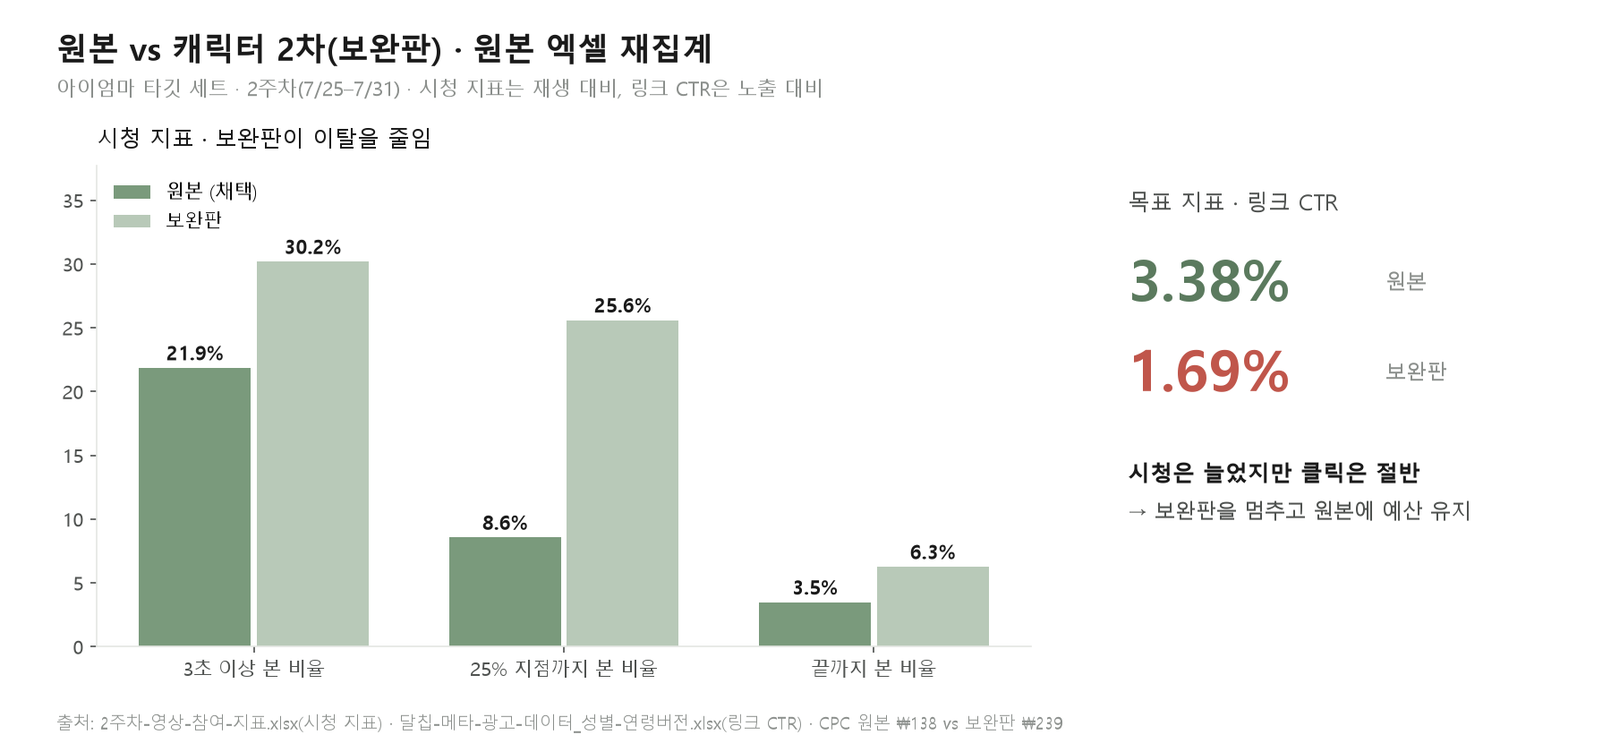
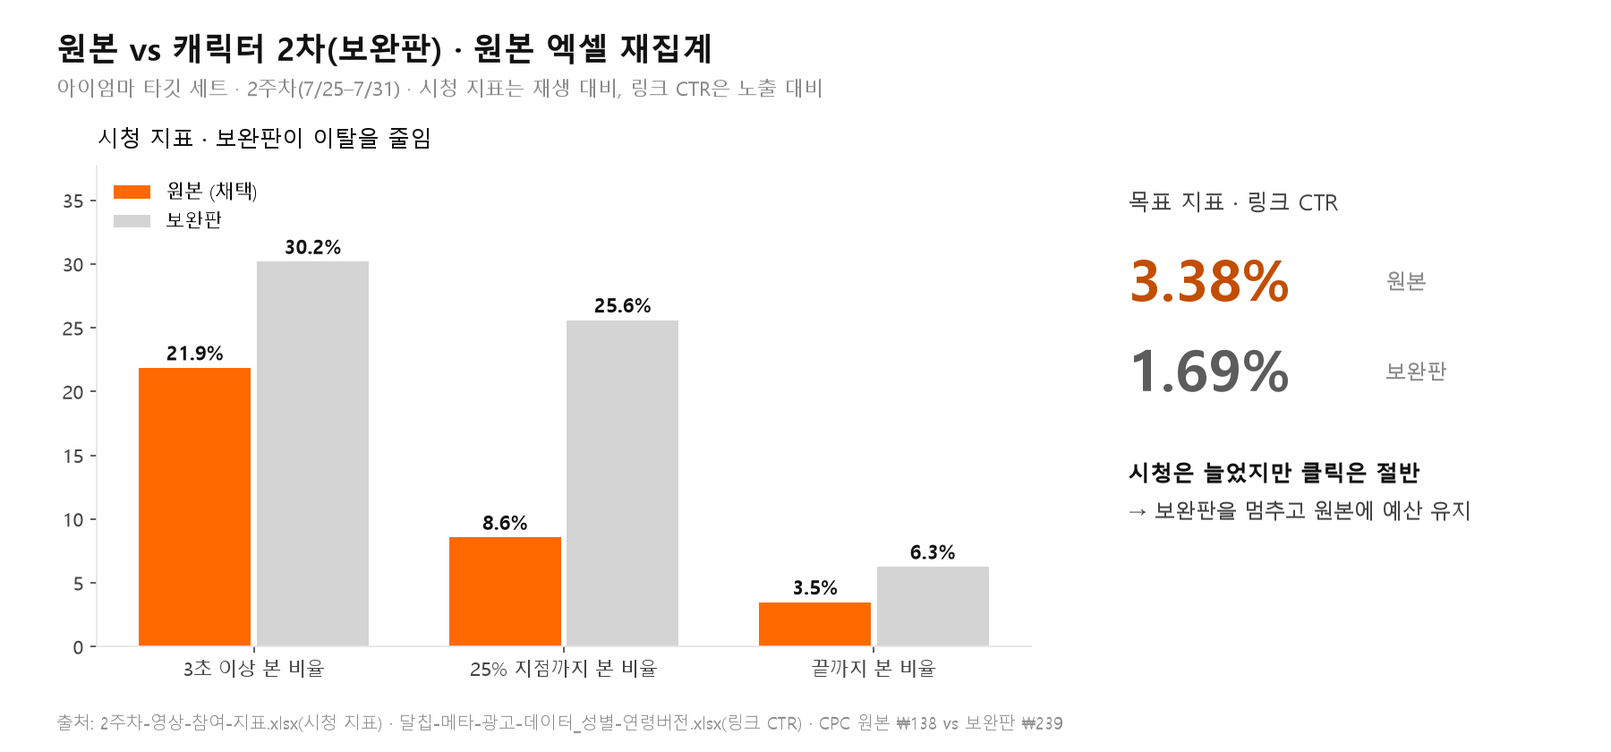
Restyle portfolio in Spigen's monochrome palette
Swap the sage accent for a black-and-white base with a single orange
accent (#FF6900), mark losing creatives in grey instead of red, rebuild
the evidence charts in the same palette, and replace the content section
with Instagram and YouTube phone mockups.

diff --git a/index.html b/index.html
@@ -12,9 +12,9 @@
 <link rel="stylesheet" href="https://cdn.jsdelivr.net/gh/orioncactus/pretendard@v1.3.9/dist/web/static/pretendard.css" />
 <style>
 :root{
-  --bg:#f7f7f7; --card:#ffffff; --ink:#1a1a1a; --ink2:#4f5250; --muted:#8b8f8c; --line:#e4e6e3;
-  --sage:#7a9a7c; --sage-d:#5b7a5e; --sage-l:#e8efe6; --sage-ll:#f1f5ef; --dark:#3b3b3b;
-  --bad:#c0564b; --bad-l:#f8e7e4;
+  --bg:#f7f7f7; --card:#ffffff; --ink:#111111; --ink2:#444444; --muted:#8a8a8a; --line:#e5e5e5;
+  --accent:#ff6900; --accent-d:#c24e00; --accent-l:#ffe8d6; --accent-ll:#fff5ec; --dark:#111111;
+  --bad:#5c5c5c; --bad-l:#ededed;
   --wrap:1180px;
 }
 *{box-sizing:border-box}
@@ -24,27 +24,27 @@ img{max-width:100%;display:block}
 a{color:inherit}
 p{margin:0 0 12px}
 .wrap{max-width:var(--wrap);margin:0 auto;padding:0 24px}
-.sage{color:var(--sage)}
+.accent{color:var(--accent)}
 .muted{color:var(--muted)}
 
 /* progress + nav */
-.progress{position:fixed;top:0;left:0;height:3px;width:0;background:var(--sage);z-index:60}
+.progress{position:fixed;top:0;left:0;height:3px;width:0;background:var(--accent);z-index:60}
 .nav{position:fixed;top:0;left:0;right:0;z-index:50;transition:background .25s,box-shadow .25s}
-.nav.scrolled{background:rgba(247,247,247,.92);backdrop-filter:blur(8px);box-shadow:0 1px 0 var(--line)}
+.nav.scrolled{background:rgba(247,247,247,.94);backdrop-filter:blur(8px);box-shadow:0 1px 0 var(--line)}
 .nav-inner{max-width:var(--wrap);margin:0 auto;padding:14px 24px;display:flex;align-items:center;justify-content:space-between}
 .nav-logo{font-weight:800;text-decoration:none;font-size:17px}
 .nav-links{display:flex;gap:26px}
 .nav-links a{text-decoration:none;font-size:14px;font-weight:600;color:var(--ink2)}
-.nav-links a:hover,.nav-links a.active{color:var(--sage-d)}
+.nav-links a:hover,.nav-links a.active{color:var(--accent-d)}
 .nav-toggle{display:none;background:none;border:0;padding:6px;cursor:pointer}
 .nav-toggle span{display:block;width:22px;height:2px;background:var(--ink);margin:5px 0}
 
 /* sections */
 section{position:relative;padding:120px 0}
-.glow::before{content:"";position:absolute;inset:0 0 auto 0;height:340px;background:radial-gradient(ellipse 70% 100% at 50% 0%,rgba(196,222,184,.55),rgba(247,247,247,0) 70%);pointer-events:none}
+.glow::before{content:"";position:absolute;inset:0 0 auto 0;height:340px;background:radial-gradient(ellipse 70% 100% at 50% 0%,rgba(255,105,0,.09),rgba(247,247,247,0) 70%);pointer-events:none}
 .sec-title{font-size:clamp(30px,4.4vw,52px);font-weight:700;line-height:1.25;letter-spacing:-.03em;margin:0 0 10px}
 .sec-sub{font-size:18px;font-weight:600;margin:0 0 34px}
-.eyebrow{font-size:13px;font-weight:700;letter-spacing:.14em;color:var(--sage-d);text-transform:uppercase;margin-bottom:14px}
+.eyebrow{font-size:13px;font-weight:700;letter-spacing:.14em;color:var(--accent-d);text-transform:uppercase;margin-bottom:14px}
 .h3{font-size:clamp(22px,2.6vw,30px);font-weight:700;letter-spacing:-.02em;line-height:1.35;margin:0 0 18px}
 .lead{font-size:17px;color:var(--ink2)}
 
@@ -52,7 +52,7 @@ section{position:relative;padding:120px 0}
 #cover{min-height:100vh;display:flex;align-items:center;justify-content:center;text-align:center;padding:100px 0}
 #cover h1{font-size:clamp(64px,13vw,168px);font-weight:800;letter-spacing:-.01em;line-height:1;margin:0 0 30px}
 #cover .tagline{font-size:clamp(18px,2.4vw,28px);font-weight:500;letter-spacing:.06em;margin:0 0 12px}
-#cover .tagline b{color:var(--sage);font-weight:700}
+#cover .tagline b{color:var(--accent);font-weight:700}
 #cover .meta{font-size:14px;color:var(--muted);letter-spacing:.04em}
 .scroll-cue{position:absolute;bottom:34px;left:50%;transform:translateX(-50%);font-size:12px;letter-spacing:.2em;color:var(--muted)}
 
@@ -64,27 +64,27 @@ section{position:relative;padding:120px 0}
 .profile ul{list-style:none;padding:0;margin:0;font-size:15px}
 .profile li{margin:6px 0}
 .profile a{text-decoration:none;border-bottom:1px solid var(--line)}
-.about-head{border-left:2px solid var(--sage);padding-left:28px;margin-bottom:40px}
+.about-head{border-left:2px solid var(--accent);padding-left:28px;margin-bottom:40px}
 .about-head h2{font-size:clamp(44px,5.4vw,72px);font-weight:600;letter-spacing:-.03em;line-height:1.05;margin:0 0 14px}
 .about-head p{font-size:19px;font-weight:600;margin:0}
 .about-cols{display:grid;grid-template-columns:1fr 1fr;gap:34px 48px}
 .blk h4{font-size:19px;font-weight:700;margin:0 0 14px;padding-bottom:10px;position:relative}
-.blk h4::after{content:"";position:absolute;left:0;bottom:0;width:72px;height:2px;background:var(--sage)}
+.blk h4::after{content:"";position:absolute;left:0;bottom:0;width:72px;height:2px;background:var(--accent)}
 .rows{list-style:none;padding:0;margin:0;font-size:15px}
 .rows li{display:grid;grid-template-columns:108px 1fr;gap:10px;margin:8px 0}
 .rows li span{font-weight:700;font-variant-numeric:tabular-nums}
 .principles{margin-top:44px;display:grid;grid-template-columns:repeat(3,1fr);gap:16px}
 .pr{background:var(--card);border:1px solid var(--line);border-radius:18px;padding:22px}
-.pr .n{width:34px;height:34px;border-radius:50%;border:1.5px solid var(--sage);color:var(--sage-d);font-weight:700;display:grid;place-items:center;margin-bottom:12px}
+.pr .n{width:34px;height:34px;border-radius:50%;border:1.5px solid var(--accent);color:var(--accent-d);font-weight:700;display:grid;place-items:center;margin-bottom:12px}
 .pr b{display:block;font-size:16px;margin-bottom:6px}
 .pr span{font-size:14px;color:var(--ink2)}
 
 /* project intro */
 .intro-grid{display:grid;grid-template-columns:1.25fr 1fr;gap:56px;align-items:center}
 .tags{display:flex;flex-wrap:wrap;gap:22px;margin:34px 0 36px}
-.tag{width:150px;height:150px;border-radius:50%;border:2px solid var(--sage);background:#fff;display:grid;place-items:center;text-align:center;font-weight:700;font-size:18px;padding:10px;line-height:1.35}
+.tag{width:150px;height:150px;border-radius:50%;border:2px solid var(--accent);background:#fff;display:grid;place-items:center;text-align:center;font-weight:700;font-size:18px;padding:10px;line-height:1.35}
 .route{display:inline-flex;flex-wrap:wrap;align-items:center;gap:10px;margin:0 0 22px;font-weight:700}
-.route span{background:var(--sage-l);color:var(--sage-d);padding:7px 16px;border-radius:999px;font-size:15px}
+.route span{background:var(--accent-l);color:var(--accent-d);padding:7px 16px;border-radius:999px;font-size:15px}
 .route i{font-style:normal;color:var(--muted)}
 .facts{width:100%;border-collapse:collapse;font-size:15px;margin-top:6px}
 .facts th{width:92px;text-align:left;color:var(--muted);font-weight:600;padding:10px 0;vertical-align:top;border-top:1px solid var(--line)}
@@ -97,8 +97,8 @@ section{position:relative;padding:120px 0}
 
 /* KPI circles */
 .kpi-row{display:grid;grid-template-columns:repeat(4,1fr);gap:22px;position:relative;margin-top:30px}
-.kpi{aspect-ratio:1;width:100%;max-width:260px;justify-self:center;border-radius:50%;background:#fff;box-shadow:0 8px 30px rgba(60,80,60,.06);display:flex;flex-direction:column;align-items:center;justify-content:center;text-align:center;padding:18px}
-.kpi .v{font-size:clamp(26px,3.6vw,50px);font-weight:800;letter-spacing:-.03em;line-height:1.1;background:linear-gradient(180deg,#5b7a5e,#9cb99c);-webkit-background-clip:text;background-clip:text;color:transparent;font-variant-numeric:tabular-nums}
+.kpi{aspect-ratio:1;width:100%;max-width:260px;justify-self:center;border-radius:50%;background:#fff;box-shadow:0 8px 30px rgba(0,0,0,.06);display:flex;flex-direction:column;align-items:center;justify-content:center;text-align:center;padding:18px}
+.kpi .v{font-size:clamp(26px,3.6vw,50px);font-weight:800;letter-spacing:-.03em;line-height:1.1;color:var(--accent);font-variant-numeric:tabular-nums}
 .kpi .l{font-weight:700;font-size:17px;margin-top:10px}
 .kpi .s{font-size:13px;font-weight:600;color:var(--ink2);margin-top:4px}
 .note{font-size:13px;color:var(--muted);margin-top:14px}
@@ -110,10 +110,10 @@ section{position:relative;padding:120px 0}
 .read{display:grid;gap:12px}
 .read-row{display:grid;grid-template-columns:1.1fr 1fr 1fr;background:#fff;border-radius:16px;overflow:hidden;border:1px solid var(--line)}
 .read-row > div{padding:18px 20px;font-size:15px}
-.read-row .num{background:var(--sage-ll)}
-.read-row .num b{display:block;font-size:22px;letter-spacing:-.02em;color:var(--sage-d);line-height:1.3}
+.read-row .num{background:var(--accent-ll)}
+.read-row .num b{display:block;font-size:22px;letter-spacing:-.02em;color:var(--accent-d);line-height:1.3}
 .read-row .act{border-left:1px dashed var(--line);font-weight:600}
-.read-row .act::before{content:"→ ";color:var(--sage-d);font-weight:800}
+.read-row .act::before{content:"→ ";color:var(--accent-d);font-weight:800}
 .read.c2 .read-row,.read-head.c2{grid-template-columns:1fr 2fr}
 .q{font-size:clamp(19px,2vw,22px);font-weight:700;letter-spacing:-.01em;margin:0 0 10px}
 .read-head{display:grid;grid-template-columns:1.1fr 1fr 1fr;font-size:12px;font-weight:700;color:var(--muted);letter-spacing:.1em;padding:0 20px}
@@ -129,12 +129,12 @@ section{position:relative;padding:120px 0}
 .chart{background:#fff;border-radius:18px;padding:24px;border:1px solid var(--line)}
 .chart h5{margin:0 0 14px;font-size:15px}
 .bar{display:grid;grid-template-columns:130px 1fr 58px;gap:10px;align-items:center;margin:9px 0;font-size:14px}
-.track{height:14px;background:var(--sage-ll);border-radius:7px;overflow:hidden}
-.fill{height:100%;border-radius:7px;background:#b8c9b8;width:0;transition:width 1s ease}
-.fill.hl{background:var(--sage)}
+.track{height:14px;background:var(--accent-ll);border-radius:7px;overflow:hidden}
+.fill{height:100%;border-radius:7px;background:#d4d4d4;width:0;transition:width 1s ease}
+.fill.hl{background:var(--accent)}
 .fill.bad{background:var(--bad)}
-.fill.kr{background:var(--sage)}
-.fill.jp{background:#c9b27a}
+.fill.kr{background:var(--accent)}
+.fill.jp{background:#444444}
 .bar .v{text-align:right;font-weight:700;font-variant-numeric:tabular-nums}
 .pair{margin:10px 0}
 .pair .lab{font-size:14px;font-weight:600;margin-bottom:4px}
@@ -150,11 +150,11 @@ section{position:relative;padding:120px 0}
 .prompt img{width:100%}
 .steps{display:grid;grid-template-columns:1fr 1fr;gap:18px;margin-top:30px}
 .step{background:#fff;border:1px solid var(--line);border-radius:18px;padding:22px}
-.step .k{font-size:12px;font-weight:700;letter-spacing:.12em;color:var(--sage-d)}
+.step .k{font-size:12px;font-weight:700;letter-spacing:.12em;color:var(--accent-d)}
 .step h5{margin:4px 0 8px;font-size:17px}
 .step p{font-size:15px;color:var(--ink2);margin:0}
 
-.quote{border-left:3px solid var(--sage);background:var(--sage-ll);padding:14px 20px;border-radius:0 12px 12px 0;margin:20px 0 0;font-size:15px;font-weight:600}
+.quote{border-left:3px solid var(--accent);background:var(--accent-ll);padding:14px 20px;border-radius:0 12px 12px 0;margin:20px 0 0;font-size:15px;font-weight:600}
 .shot{margin-top:26px}
 .shot img{border:1px solid var(--line);border-radius:10px;background:#fff}
 .shot figcaption{font-size:13px;color:var(--muted);margin-top:8px}
@@ -167,7 +167,7 @@ section{position:relative;padding:120px 0}
 .box li{margin:5px 0}
 .limit{display:grid;grid-template-columns:1fr 1fr 1fr;gap:16px;margin-top:22px}
 .limit .box h5{display:flex;flex-wrap:wrap;align-items:center;gap:8px}
-.limit .box h5 em{font-style:normal;font-size:12px;font-weight:700;padding:2px 10px;border-radius:999px;background:var(--sage-l);color:var(--sage-d)}
+.limit .box h5 em{font-style:normal;font-size:12px;font-weight:700;padding:2px 10px;border-radius:999px;background:var(--accent-l);color:var(--accent-d)}
 .limit .box.lim h5 em{background:var(--bad-l);color:var(--bad)}
 .limit p{font-size:15px;color:var(--ink2);margin:0}
 
@@ -176,7 +176,7 @@ section{position:relative;padding:120px 0}
 #bridge .wrap{width:100%}
 #bridge h2{font-size:clamp(30px,4.6vw,56px);font-weight:700;letter-spacing:-.03em;line-height:1.3;margin:0 0 22px}
 #bridge p{font-size:clamp(16px,1.6vw,19px);color:var(--ink2);margin:0}
-#bridge::after{content:"";display:block;position:absolute;left:50%;bottom:70px;width:1px;height:48px;background:var(--sage)}
+#bridge::after{content:"";display:block;position:absolute;left:50%;bottom:70px;width:1px;height:48px;background:var(--accent)}
 
 /* channel hero */
 .channel-hero{display:grid;grid-template-columns:1fr 1.05fr;gap:40px;align-items:center}
@@ -184,7 +184,7 @@ section{position:relative;padding:120px 0}
 .channel-hero p{font-size:16px;color:var(--ink2)}
 .channel-hero .links{display:flex;flex-wrap:wrap;gap:10px;margin-top:22px}
 .phone-duo{position:relative;width:100%;max-width:600px;aspect-ratio:1/1.1;margin-left:auto}
-.phone{position:absolute;width:42%;aspect-ratio:9/19.2;background:#141414;border-radius:38px;padding:9px;box-shadow:0 26px 50px rgba(30,45,30,.16),inset 0 0 0 2px #2a2a2a}
+.phone{position:absolute;width:42%;aspect-ratio:9/19.2;background:#141414;border-radius:38px;padding:9px;box-shadow:0 26px 50px rgba(0,0,0,.16),inset 0 0 0 2px #2a2a2a}
 .phone::before{content:"";position:absolute;top:18px;left:50%;transform:translateX(-50%);width:28%;height:16px;background:#141414;border-radius:10px;z-index:2}
 .phone .screen{width:100%;height:100%;border-radius:30px;overflow:hidden;background:#fff}
 .phone .screen img{width:100%;height:100%;object-fit:cover;object-position:top center}
@@ -195,43 +195,43 @@ section{position:relative;padding:120px 0}
 /* content cards */
 .ccards{display:grid;grid-template-columns:repeat(3,1fr);gap:20px;margin-top:10px}
 .ccard{background:#fff;border:1px solid var(--line);border-radius:20px;overflow:hidden;display:flex;flex-direction:column}
-.ccard .thumb{aspect-ratio:16/10;background:var(--sage-ll);overflow:hidden}
+.ccard .thumb{aspect-ratio:16/10;background:var(--accent-ll);overflow:hidden}
 .ccard .thumb img{width:100%;height:100%;object-fit:cover}
 .ccard .thumb.fit img{object-fit:contain;object-position:center bottom}
 .ccard .in{padding:22px 22px 24px;display:flex;flex-direction:column;flex:1}
-.ccard .k{font-size:12px;font-weight:700;letter-spacing:.12em;color:var(--sage-d);text-transform:uppercase}
+.ccard .k{font-size:12px;font-weight:700;letter-spacing:.12em;color:var(--accent-d);text-transform:uppercase}
 .ccard h4{margin:4px 0 4px;font-size:19px;letter-spacing:-.01em}
 .ccard .org{font-size:13px;color:var(--muted);margin:0 0 12px}
 .ccard p{font-size:14.5px;color:var(--ink2);margin:0 0 14px}
 .ccard .point{margin-top:auto;padding-top:14px;border-top:1px dashed var(--line);font-size:14px;font-weight:700}
-.ccard .point::before{content:"→ ";color:var(--sage-d)}
+.ccard .point::before{content:"→ ";color:var(--accent-d)}
 .ccard .links{display:flex;flex-wrap:wrap;gap:8px;margin:0 0 14px}
 .ccard .btn{padding:6px 12px;font-size:13px}
 
 /* next */
 .next-table{display:grid;gap:12px;margin-top:30px}
 .next-row{display:grid;grid-template-columns:1fr 60px 1fr;align-items:center;background:#fff;border:1px solid var(--line);border-radius:16px;padding:18px 22px;font-size:15px}
-.next-row .arrow{text-align:center;color:var(--sage);font-weight:800;font-size:20px}
+.next-row .arrow{text-align:center;color:var(--accent);font-weight:800;font-size:20px}
 .next-row .to{font-weight:700}
 .closing{margin:48px 0 0;text-align:center;font-size:clamp(20px,2.4vw,28px);font-weight:700;line-height:1.5;letter-spacing:-.02em}
-.next-head{display:grid;grid-template-columns:1fr 60px 1fr;padding:0 22px;font-size:13px;font-weight:700;letter-spacing:.04em;color:var(--sage-d)}
+.next-head{display:grid;grid-template-columns:1fr 60px 1fr;padding:0 22px;font-size:13px;font-weight:700;letter-spacing:.04em;color:var(--accent-d)}
 
 /* evidence */
 .ev-grid{display:grid;grid-template-columns:repeat(2,1fr);gap:22px;margin-top:26px}
 .ev{background:#fff;border:1px solid var(--line);border-radius:18px;overflow:hidden;scroll-margin-top:90px}
 .ev button{all:unset;display:block;cursor:zoom-in;width:100%}
-.ev button:focus-visible{outline:2px solid var(--sage);outline-offset:-2px}
+.ev button:focus-visible{outline:2px solid var(--accent);outline-offset:-2px}
 .ev img{width:100%;aspect-ratio:16/8.4;object-fit:cover;object-position:top left;border-bottom:1px solid var(--line);background:#fff}
 .ev .cap{padding:16px 18px 18px}
-.ev .cap .id{font-size:12px;font-weight:700;letter-spacing:.1em;color:var(--sage-d)}
+.ev .cap .id{font-size:12px;font-weight:700;letter-spacing:.1em;color:var(--accent-d)}
 .ev .cap b{display:block;font-size:16px;margin:2px 0 4px}
 .ev .cap span{font-size:13.5px;color:var(--ink2)}
-.ev-link{display:inline-block;margin-top:10px;font-size:13px;font-weight:700;color:var(--sage-d);text-decoration:none;border-bottom:1px solid var(--sage-l)}
-.ev-link:hover{border-color:var(--sage-d)}
+.ev-link{display:inline-block;margin-top:10px;font-size:13px;font-weight:700;color:var(--accent-d);text-decoration:none;border-bottom:1px solid var(--accent-l)}
+.ev-link:hover{border-color:var(--accent-d)}
 .ev-src{margin-top:20px;font-size:13.5px;color:var(--ink2);background:#fff;border:1px dashed var(--line);border-radius:14px;padding:14px 18px}
-.ev-src code{font-family:ui-monospace,Consolas,monospace;font-size:12.5px;background:var(--sage-ll);padding:1px 6px;border-radius:5px}
+.ev-src code{font-family:ui-monospace,Consolas,monospace;font-size:12.5px;background:var(--accent-ll);padding:1px 6px;border-radius:5px}
 .lightbox{border:0;padding:0;background:transparent;max-width:min(1200px,94vw);max-height:92vh}
-.lightbox::backdrop{background:rgba(20,22,20,.78)}
+.lightbox::backdrop{background:rgba(17,17,17,.8)}
 .lightbox img{max-width:100%;max-height:86vh;border-radius:10px;background:#fff}
 .lightbox p{color:#fff;font-size:14px;margin:10px 2px 0}
 .lightbox .close{position:fixed;top:14px;right:18px;background:#fff;border:0;border-radius:999px;width:38px;height:38px;font-size:20px;cursor:pointer}
@@ -240,7 +240,7 @@ section{position:relative;padding:120px 0}
 #thanks{text-align:center;padding:160px 0 140px}
 #thanks .small{font-size:22px;letter-spacing:.3em;color:var(--ink2);margin-bottom:14px;padding-bottom:14px;display:inline-block;border-bottom:1px solid var(--line)}
 #thanks h2{font-size:clamp(60px,10vw,120px);font-weight:800;letter-spacing:-.02em;margin:0;position:relative;display:inline-block}
-#thanks h2 em{position:absolute;left:-18%;top:-34%;font-family:"Brush Script MT","Segoe Script",cursive;font-weight:400;font-style:normal;font-size:.62em;color:var(--sage);transform:rotate(-8deg)}
+#thanks h2 em{position:absolute;left:-18%;top:-34%;font-family:"Brush Script MT","Segoe Script",cursive;font-weight:400;font-style:normal;font-size:.62em;color:var(--accent);transform:rotate(-8deg)}
 #thanks .contact{margin-top:30px;font-weight:600}
 
 /* reveal */
@@ -323,7 +323,7 @@ section{position:relative;padding:120px 0}
     </div>
     <div>
       <div class="about-head rv">
-        <h2>About <span class="sage">me</span></h2>
+        <h2>About <span class="accent">me</span></h2>
         <p>가설을 세우고, 광고 데이터로 검증하는 송보경입니다.</p>
       </div>
       <div class="about-cols rv">
@@ -427,7 +427,7 @@ section{position:relative;padding:120px 0}
   <div class="wrap">
     <div class="eyebrow rv">Step 1 · 데이터로 타깃과 메시지 정하기</div>
     <h3 class="h3 rv">시장 데이터로 ‘누구에게, 어떤 말로’ 들어갈지 정했습니다</h3>
-    <div class="flow-badge rv"><b>숫자</b><i>→</i><b>해석</b><i>→</i><b>판단</b></div>
+    <div class="flow-badge rv"><b>숫자</b><i>→</i><b>판단</b></div>
     <div class="read-head c2"><span>숫자</span><span>판단</span></div>
     <div class="read c2 rv">
       <div class="read-row"><div class="num"><b>77.5%</b>일본 쌀과자 시장 중 간장맛</div><div class="act">간장맛에 편중된 시장의 공백을 파악하고, ‘건강과 맛을 동시에 잡는 초코 쌀과자’로 포지셔닝</div></div>
@@ -439,12 +439,12 @@ section{position:relative;padding:120px 0}
     <div class="two" style="margin-top:34px">
       <div class="chart rv">
         <h5>한·일 세부 속성 만족도</h5>
-        <div class="legend"><span><i style="background:var(--sage)"></i>한국</span><span><i style="background:#c9b27a"></i>일본</span></div>
+        <div class="legend"><span><i style="background:var(--accent)"></i>한국</span><span><i style="background:#444444"></i>일본</span></div>
         <div id="satChart"></div>
       </div>
       <div class="chart rv">
         <h5>실제 리뷰 감정 비교</h5>
-        <div class="legend"><span><i style="background:var(--sage)"></i>긍정</span><span><i style="background:#cfd6cf"></i>중립</span><span><i style="background:var(--bad)"></i>부정</span></div>
+        <div class="legend"><span><i style="background:var(--accent)"></i>긍정</span><span><i style="background:#d9d9d9"></i>중립</span><span><i style="background:var(--bad)"></i>부정</span></div>
         <div id="sentChart"></div>
         <p class="note" style="margin-top:18px">한일 속성 만족도와 리뷰 감정을 비교한 결과, 한국 소비자는 쌀 본연의 고소함(만족도 70%)에 집중한 반면, 일본 소비자는 초코와의 밸런스(단맛 만족도 50%)를 더 중요하게 평가했습니다. 이를 바탕으로 ‘쌀의 고소함과 초코 크림의 조화’를 강조하는 현지 맞춤형 카피를 도출했습니다.</p>
       </div>
@@ -575,7 +575,7 @@ section{position:relative;padding:120px 0}
 <section id="bridge" class="glow">
   <div class="wrap">
     <div class="eyebrow rv">Data × Creative</div>
-    <h2 class="rv">데이터를 읽는 눈,<br>그리고 <span class="sage">데이터를 움직이는 크리에이티브</span></h2>
+    <h2 class="rv">데이터를 읽는 눈,<br>그리고 <span class="accent">데이터를 움직이는 크리에이티브</span></h2>
     <p class="rv">퍼포먼스 마케팅의 최적화는 결국 ‘타깃을 움직이는 콘텐츠’가 뒷받침되어야 완성됩니다.</p>
   </div>
 </section>
@@ -634,7 +634,7 @@ section{position:relative;padding:120px 0}
       <div class="next-row"><span>지면별 클릭 기여도 분석으로 넥스트 스텝 도출</span><span class="arrow">→</span><span class="to">Facebook·Instagram·TikTok 등 플랫폼별 특성을 고려한 지면 최적화</span></div>
       <div class="next-row"><span>최종 전환(CVR) 트래킹의 한계를 인지하고 해결책 기획</span><span class="arrow">→</span><span class="to">단순 유입을 넘어 최종 구매까지 이어지는 Full-funnel 추적</span></div>
     </div>
-    <p class="closing rv">가설을 세우고, 데이터로 검증하며,<br>확실한 성과(Winning)에 예산을 집중하는 <span class="sage">퍼포먼스 마케터</span>가 되겠습니다.</p>
+    <p class="closing rv">가설을 세우고, 데이터로 검증하며,<br>확실한 성과(Winning)에 예산을 집중하는 <span class="accent">퍼포먼스 마케터</span>가 되겠습니다.</p>
   </div>
 </section>
 
@@ -662,8 +662,8 @@ section{position:relative;padding:120px 0}
   }).join('');
   el('sentChart').innerHTML=sent.map(function(d){
     return '<div class="pair"><div class="lab">'+d[0]+'</div><div style="display:flex;height:26px;border-radius:7px;overflow:hidden;font-size:12px;font-weight:700;color:#fff">'+
-      '<div style="width:'+d[1]+'%;background:var(--sage);display:grid;place-items:center">'+d[1]+'%</div>'+
-      '<div style="width:'+d[2]+'%;background:#cfd6cf;color:#4f5250;display:grid;place-items:center">'+d[2]+'%</div>'+
+      '<div style="width:'+d[1]+'%;background:var(--accent);display:grid;place-items:center">'+d[1]+'%</div>'+
+      '<div style="width:'+d[2]+'%;background:#d9d9d9;color:#444444;display:grid;place-items:center">'+d[2]+'%</div>'+
       '<div style="width:'+d[3]+'%;background:var(--bad);display:grid;place-items:center">'+(d[3]>=8?d[3]+'%':'')+'</div></div></div>';
   }).join('');
   el('cpcChart').innerHTML=cpc.map(function(d){

diff --git a/analysis/make_evidence.py b/analysis/make_evidence.py
@@ -21,8 +21,8 @@ OUT.mkdir(parents=True, exist_ok=True)
 EXCLUDE = "t1_mom_character - v3"
 
 plt.rcParams.update({"font.family": "Malgun Gothic", "axes.unicode_minus": False})
-INK, INK2, MUTED, LINE = "#1a1a1a", "#4f5250", "#8b8f8c", "#e4e6e3"
-SAGE, SAGE_D, SAGE_LL, BAD, GREY = "#7a9a7c", "#5b7a5e", "#f1f5ef", "#c0564b", "#b8c9b8"
+INK, INK2, MUTED, LINE = "#111111", "#444444", "#8a8a8a", "#e5e5e5"
+ACCENT, ACCENT_D, ACCENT_LL, BAD, GREY = "#ff6900", "#c24e00", "#fff5ec", "#5c5c5c", "#d4d4d4"
 
 NUM = ["지출 금액 (KRW)", "링크 클릭", "노출", "클릭(전체)", "ThruPlay"]
 raw = pd.read_excel(ROOT / "달칩-메타-광고-데이터_성별-연령버전.xlsx")
@@ -62,13 +62,13 @@ def draw_table(ax, cols, rows, widths, hl_rows=(), align=None):
     for w in widths:
         xs.append(x)
         x += w
-    ax.add_patch(plt.Rectangle((0, 1 - h), 1, h, color=SAGE_LL, transform=ax.transAxes, lw=0))
+    ax.add_patch(plt.Rectangle((0, 1 - h), 1, h, color=ACCENT_LL, transform=ax.transAxes, lw=0))
     for j, c in enumerate(cols):
         ax.text(xs[j] + 0.01, 1 - h / 2, c, fontsize=10, fontweight="bold", color=INK2, va="center", transform=ax.transAxes)
     for i, r in enumerate(rows):
         y = 1 - h * (i + 1.5)
         if i in hl_rows:
-            ax.add_patch(plt.Rectangle((0, 1 - h * (i + 2)), 1, h, color="#e9f2e6", transform=ax.transAxes, lw=0))
+            ax.add_patch(plt.Rectangle((0, 1 - h * (i + 2)), 1, h, color="#ffebdd", transform=ax.transAxes, lw=0))
         ax.plot([0, 1], [1 - h * (i + 2)] * 2, color=LINE, lw=0.8, transform=ax.transAxes)
         for j, v in enumerate(r):
             right = align and align[j] == "r"
@@ -135,7 +135,7 @@ fem = gender.get("female", 0) / gender.sum() * 100
 fig = plt.figure(figsize=(12, 5.6), dpi=150, facecolor="white")
 header(fig, "성별 · 연령별 반응 · 원본 엑셀 재집계", "아이엄마 타깃 세트 · 2주 합산 · 링크 클릭 기준")
 ax = fig.add_axes([0.07, 0.12, 0.52, 0.62])
-colors = [SAGE if a in ("55-64", "65+") else GREY for a in age.index]
+colors = [ACCENT if a in ("55-64", "65+") else GREY for a in age.index]
 bars = ax.bar(age.index, age.ctr, color=colors, width=0.62)
 for b, v in zip(bars, age.ctr):
     ax.text(b.get_x() + b.get_width() / 2, v + 0.08, f"{v:.2f}%", ha="center", fontsize=11, fontweight="bold", color=INK)
@@ -153,10 +153,10 @@ old_ctr = old["링크 클릭"].sum() / old["노출"].sum() * 100
 young_ctr = young["링크 클릭"].sum() / young["노출"].sum() * 100
 old_share = old["링크 클릭"].sum() / t1["링크 클릭"].sum() * 100
 fig.text(0.65, 0.74, "여성 비중", fontsize=12, color=INK2)
-fig.text(0.65, 0.62, f"{fem:.0f}%", fontsize=34, fontweight="bold", color=SAGE_D)
+fig.text(0.65, 0.62, f"{fem:.0f}%", fontsize=34, fontweight="bold", color=ACCENT_D)
 fig.text(0.65, 0.57, f"링크 클릭 {gender.sum():,.0f}건 중 {gender.get('female', 0):,.0f}건", fontsize=10.5, color=MUTED)
 fig.text(0.65, 0.44, "55세 이상 vs 25~54세 링크 CTR", fontsize=12, color=INK2)
-fig.text(0.65, 0.32, f"{old_ctr:.2f}% vs {young_ctr:.2f}%", fontsize=26, fontweight="bold", color=SAGE_D)
+fig.text(0.65, 0.32, f"{old_ctr:.2f}% vs {young_ctr:.2f}%", fontsize=26, fontweight="bold", color=ACCENT_D)
 fig.text(0.65, 0.27, f"55세 이상이 링크 클릭의 {old_share:.0f}%", fontsize=10.5, color=MUTED)
 footer(fig, "출처: 달칩-메타-광고-데이터_성별-연령버전.xlsx · 성별 unknown 포함 · 연령 Unknown 1행 제외")
 fig.savefig(OUT / "ev_age_gender.png", facecolor="white")
@@ -172,7 +172,7 @@ reels = pl[[i for i in pl.index if "릴스" in i[1]]].sum()
 fig = plt.figure(figsize=(12, 5.6), dpi=150, facecolor="white")
 header(fig, "지면별 링크 클릭 · 원본 엑셀 재집계", f"아이엄마 타깃 세트 · 2주차(7/25–7/31) · 링크 클릭 {pl.sum():,.0f}건 · 자동 배치")
 ax = fig.add_axes([0.2, 0.14, 0.5, 0.68])
-cols_ = [SAGE if "릴스" in p else GREY for _, p in pl.index]
+cols_ = [ACCENT if "릴스" in p else GREY for _, p in pl.index]
 bars = ax.barh(labels, pl.values, color=cols_, height=0.62)
 for b, v in zip(bars, pl.values):
     ax.text(v + 12, b.get_y() + b.get_height() / 2, f"{v:,.0f}", va="center", fontsize=10.5, fontweight="bold", color=INK)
@@ -182,7 +182,7 @@ ax.spines["left"].set_color(LINE)
 ax.set_xticks([])
 ax.tick_params(colors=INK2, labelsize=10.5)
 fig.text(0.76, 0.66, "릴스 비중", fontsize=12, color=INK2)
-fig.text(0.76, 0.54, f"{reels / pl.sum() * 100:.0f}%", fontsize=34, fontweight="bold", color=SAGE_D)
+fig.text(0.76, 0.54, f"{reels / pl.sum() * 100:.0f}%", fontsize=34, fontweight="bold", color=ACCENT_D)
 fig.text(0.76, 0.49, f"{pl.sum():,.0f}건 중 {reels:,.0f}건", fontsize=10.5, color=MUTED)
 footer(fig, "출처: 2주차-영상-참여-지표.xlsx (아웃바운드 클릭 = 아마존 상품 페이지로 이동한 클릭) · 지면별 지출이 없어 비용 효율은 비교하지 않음")
 fig.savefig(OUT / "ev_placement.png", facecolor="white")
@@ -202,7 +202,7 @@ ax = fig.add_axes([0.06, 0.14, 0.58, 0.64])
 xs = range(len(metrics))
 orig = [w.loc["t1_mom_character", c] / w.loc["t1_mom_character", "동영상 재생"] * 100 for _, c in metrics]
 v2 = [w.loc["t1_mom_character_v2", c] / w.loc["t1_mom_character_v2", "동영상 재생"] * 100 for _, c in metrics]
-b1 = ax.bar([x - 0.19 for x in xs], orig, width=0.36, color=SAGE, label="원본 (채택)")
+b1 = ax.bar([x - 0.19 for x in xs], orig, width=0.36, color=ACCENT, label="원본 (채택)")
 b2 = ax.bar([x + 0.19 for x in xs], v2, width=0.36, color=GREY, label="보완판")
 for bars in (b1, b2):
     for b in bars:
@@ -217,7 +217,7 @@ ax.tick_params(colors=INK2)
 ax.legend(frameon=False, loc="upper left")
 ax.set_title("시청 지표 · 보완판이 이탈을 줄임", loc="left", fontsize=12, color=INK, pad=10)
 fig.text(0.7, 0.72, "목표 지표 · 링크 CTR", fontsize=12, color=INK2)
-fig.text(0.7, 0.6, f"{ctr2['t1_mom_character']:.2f}%", fontsize=30, fontweight="bold", color=SAGE_D)
+fig.text(0.7, 0.6, f"{ctr2['t1_mom_character']:.2f}%", fontsize=30, fontweight="bold", color=ACCENT_D)
 fig.text(0.86, 0.615, "원본", fontsize=11, color=MUTED)
 fig.text(0.7, 0.48, f"{ctr2['t1_mom_character_v2']:.2f}%", fontsize=30, fontweight="bold", color=BAD)
 fig.text(0.86, 0.495, "보완판", fontsize=11, color=MUTED)
